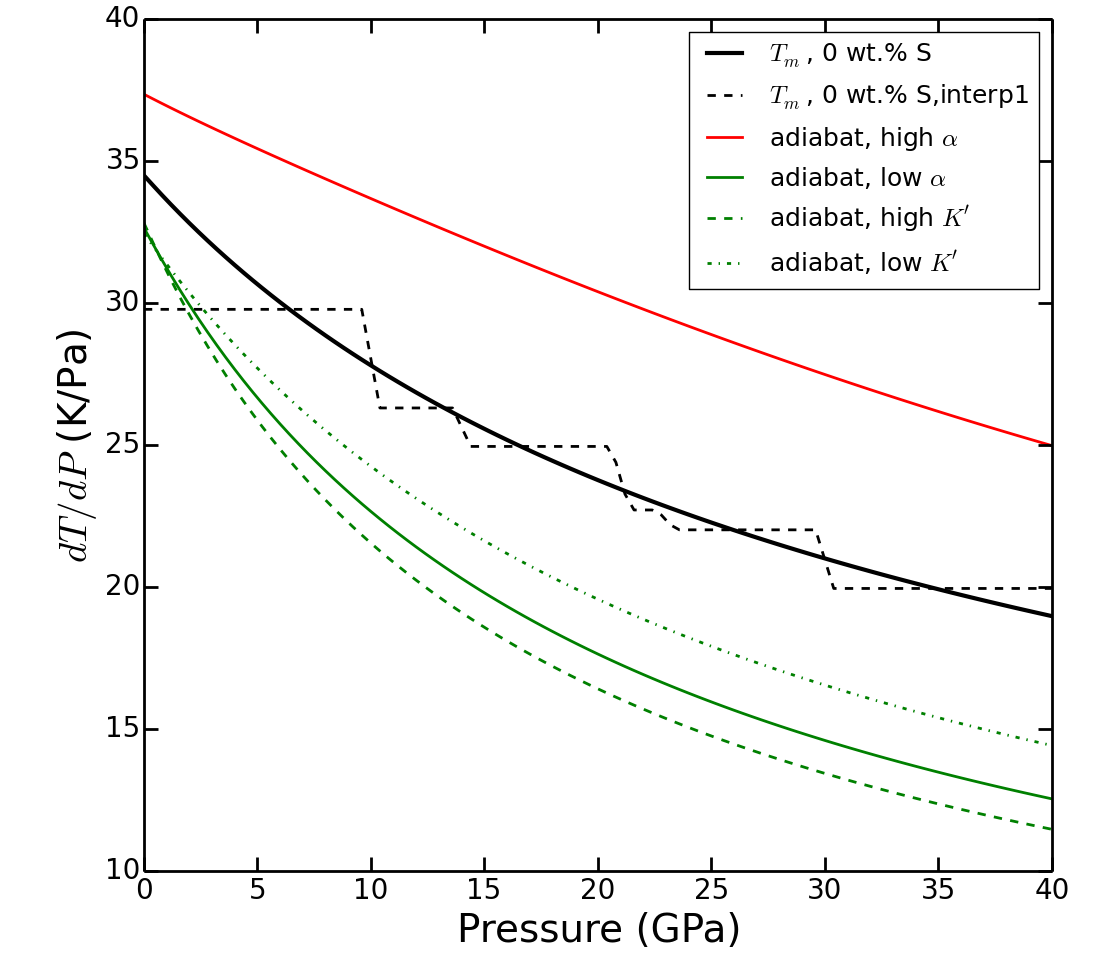
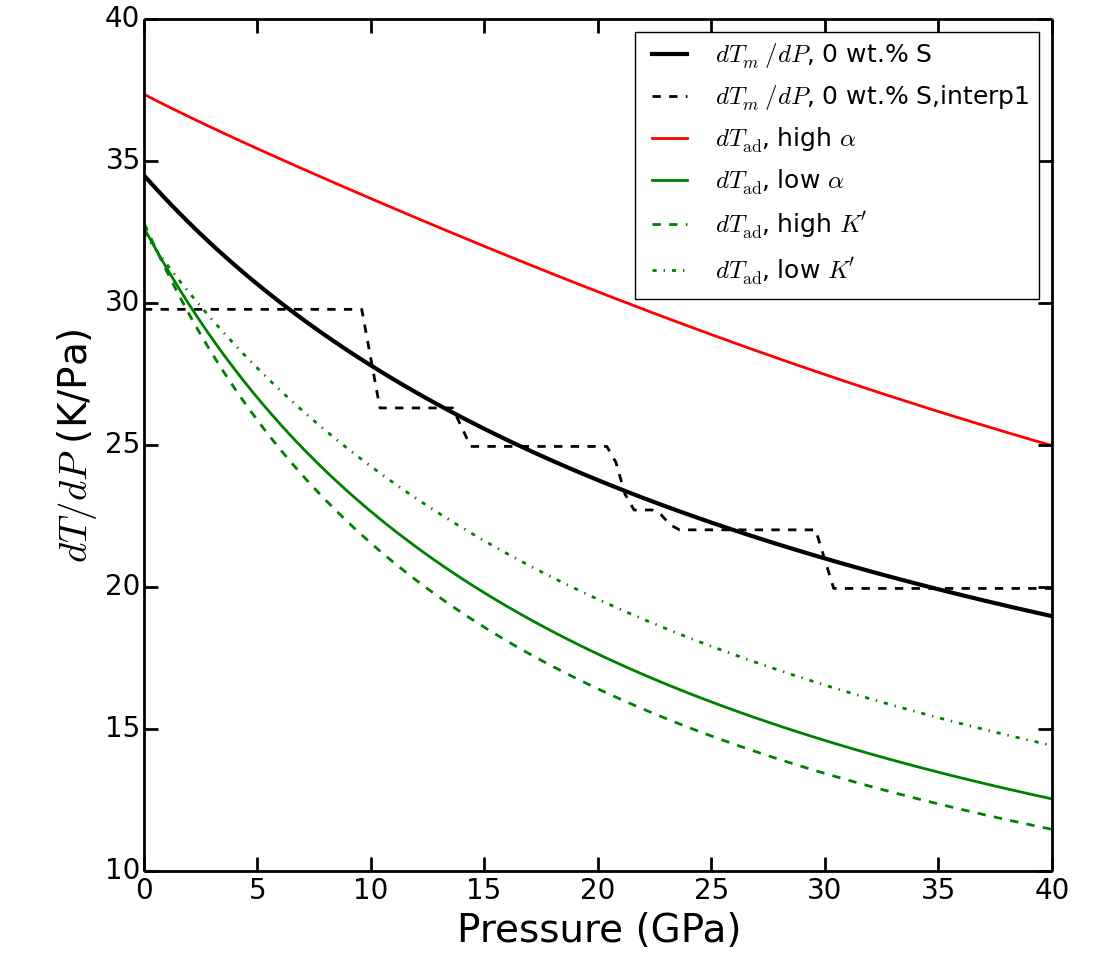
Changed clapeyron slope figure

Changed region(s): [[0.5533, 0.031, 0.953, 0.3099], [0.7685, 0.031, 0.83, 0.062], [0.5533, 0.2789, 0.5841, 0.3099]]

diff --git a/mercury_minerals.py b/mercury_minerals.py
@@ -507,7 +507,7 @@ if __name__ == "__main__":
     tlow  = burnman.geotherm.adiabatic(p,np.array([1900]),lFe_low_gamma)
     tlow2 = burnman.geotherm.adiabatic(p,np.array([1500]),lFe_low_gamma)
 #     t  = burnman.geotherm.adiabatic(p/1.e9,np.array([1900]),lFe)
-    ax4.plot(p/1.e9,liq_anzellini,'k',lw=3,label=r'$T_m$, 0 wt.% S') 
+    ax4.plot(p/1.e9,liq_anzellini,'k',lw=3,label=r'$dT_m$, 0 wt.% S') 
     ax4.plot(p/1.e9,liq_dum10,'k',lw=2,label=r'$T_m$, 10 wt.% S,linear') 
     ax4.plot(p/1.e9,liq10,'k--',lw=2,label=r'$T_m$, 10 wt.% S,interp1')
     ax4.plot(p/1.e9,liq_no14,'k-.',lw=2,label=r'$T_m$, 10 wt.% S,interp2') 
@@ -524,22 +524,22 @@ if __name__ == "__main__":
     # plot dT/dP of clapeyron slope versus adiabats for 0 wt%
     fig5 = plt.figure()
     ax5 = plt.subplot(111)
-    ax5.plot(p/1.e9,dT_dP_anzellini,'k',lw=3,label=r'$T_m$, 0 wt.% S')
-    ax5.plot(p/1.e9,dT_dP_liq,'k--',lw=2,label=r'$T_m$, 0 wt.% S,interp1') 
+    ax5.plot(p/1.e9,dT_dP_anzellini,'k',lw=3,label=r'$dT_m/dP$, 0 wt.% S')
+    ax5.plot(p/1.e9,dT_dP_liq,'k--',lw=2,label=r'$dT_m/dP$, 0 wt.% S,interp1') 
 
     t =burnman.geotherm.adiabatic(p,np.array([1700.]),lFe_high_gamma)
     dT_dP_ad = np.gradient(t) / np.gradient(p) * 1.e9
-    ax5.plot(p/1.e9,dT_dP_ad,'r-',lw=2,label=r'adiabat, high $\alpha$')
+    ax5.plot(p/1.e9,dT_dP_ad,'r-',lw=2,label=r'$dT_{\rm ad}$, high $\alpha$')
     t =burnman.geotherm.adiabatic(p,np.array([1900.]),lFe_low_gamma)
     dT_dP_ad = np.gradient(t) / np.gradient(p) * 1.e9
-    ax5.plot(p/1.e9,dT_dP_ad,'g-',lw=2,label=r'adiabat, low $\alpha$')
+    ax5.plot(p/1.e9,dT_dP_ad,'g-',lw=2,label=r'$dT_{\rm ad}$, low $\alpha$')
 
     t =burnman.geotherm.adiabatic(p,np.array([1900.]),lFe_high_kprime)
     dT_dP_ad = np.gradient(t) / np.gradient(p) * 1.e9
-    ax5.plot(p/1.e9,dT_dP_ad,'g--',lw=2,label=r"adiabat, high $K'$")
+    ax5.plot(p/1.e9,dT_dP_ad,'g--',lw=2,label=r"$dT_{\rm ad}$, high $K'$")
     t =burnman.geotherm.adiabatic(p,np.array([1900.]),lFe_low_kprime)
     dT_dP_ad = np.gradient(t) / np.gradient(p) * 1.e9
-    ax5.plot(p/1.e9,dT_dP_ad,'g-.',lw=2,label=r"adiabat, low $K'$")
+    ax5.plot(p/1.e9,dT_dP_ad,'g-.',lw=2,label=r"$dT_{\rm ad}$, low $K'$")
 
     plt.legend(loc='upper right')
     plt.ylabel(r'$dT/dP$ (K/Pa)')
